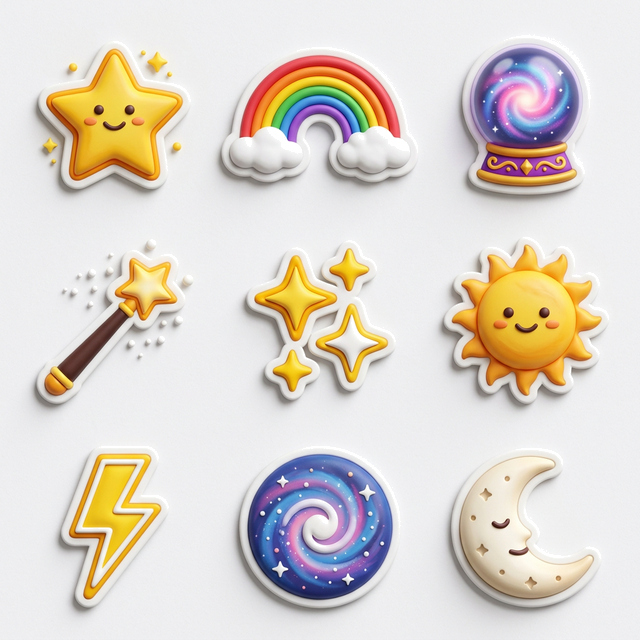
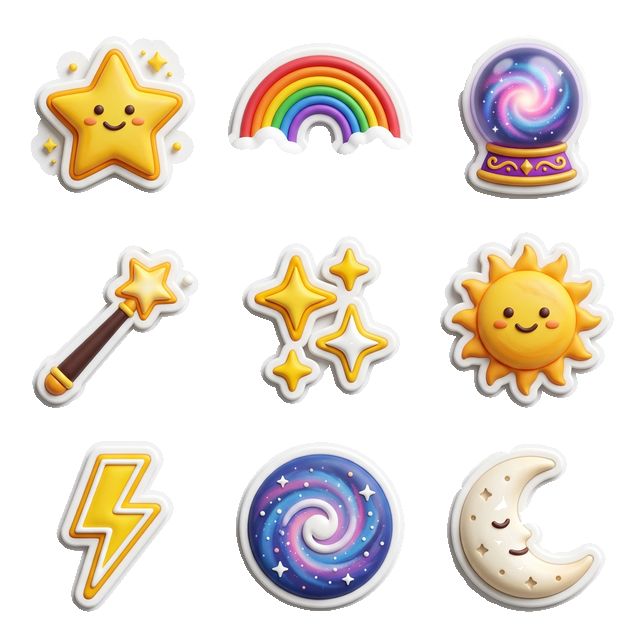
Fix sticker clipping: Use advanced Dilation-based isolation to perfectly remove backgrounds and shadows

diff --git a/ImageProcessor.java b/ImageProcessor.java
@@ -1,5 +1,4 @@
 import javax.imageio.ImageIO;
-import java.awt.*;
 import java.awt.image.BufferedImage;
 import java.io.File;
 import java.io.IOException;
@@ -21,20 +20,19 @@ public class ImageProcessor {
         for (File file : files) {
             System.out.println("Processing: " + file.getName());
             BufferedImage src = ImageIO.read(file);
-            BufferedImage res = removeWhiteBackground(src);
+            BufferedImage res = isolateStickerByColorAndExpansion(src);
             String outputName = file.getName().replace(".png", "_transparent.png");
             ImageIO.write(res, "PNG", new File(outputDir, outputName));
         }
     }
 
-    private static BufferedImage removeWhiteBackground(BufferedImage src) {
+    private static BufferedImage isolateStickerByColorAndExpansion(BufferedImage src) {
         int width = src.getWidth();
         int height = src.getHeight();
         BufferedImage out = new BufferedImage(width, height, BufferedImage.TYPE_INT_ARGB);
-
-        // Threshold for white (adjust if needed)
-        int threshold = 245; 
-
+        
+        boolean[][] isBody = new boolean[width][height];
+        
         for (int y = 0; y < height; y++) {
             for (int x = 0; x < width; x++) {
                 int rgb = src.getRGB(x, y);
@@ -42,13 +40,54 @@ public class ImageProcessor {
                 int g = (rgb >> 8) & 0xFF;
                 int b = rgb & 0xFF;
 
-                if (r > threshold && g > threshold && b > threshold) {
-                    out.setRGB(x, y, 0x00000000); // Transparent
-                } else {
-                    out.setRGB(x, y, rgb | 0xFF000000); // Opaque
+                // Detect "Significant Color" (not white, not grey, not black)
+                // We use saturation/chroma check
+                int max = Math.max(r, Math.max(g, b));
+                int min = Math.min(r, Math.min(g, b));
+                int diff = max - min;
+                
+                // If the pixel has a strong color OR is dark (but not white/grey)
+                if (diff > 40 || (max < 150 && diff > 20)) {
+                    isBody[x][y] = true;
                 }
             }
         }
+
+        // Dilate the body to include the white border (approx 12 pixels)
+        int borderSize = 12;
+        boolean[][] isSticker = new boolean[width][height];
+        for (int y = 0; y < height; y++) {
+            for (int x = 0; x < width; x++) {
+                if (isBody[x][y]) {
+                    for (int dy = -borderSize; dy <= borderSize; dy++) {
+                        for (int dx = -borderSize; dx <= borderSize; dx++) {
+                            int nx = x + dx;
+                            int ny = y + dy;
+                            if (nx >= 0 && nx < width && ny >= 0 && ny < height) {
+                                if (dx*dx + dy*dy <= borderSize*borderSize) {
+                                    isSticker[nx][ny] = true;
+                                }
+                            }
+                        }
+                    }
+                }
+            }
+        }
+
+        // Final output
+        for (int y = 0; y < height; y++) {
+            for (int x = 0; x < width; x++) {
+                if (isSticker[x][y]) {
+                    int rgb = src.getRGB(x, y);
+                    // For the border pixels that are very white, keep them opaque
+                    // For pixels near the very edge of the dilation, we can feather them
+                    out.setRGB(x, y, rgb | 0xFF000000);
+                } else {
+                    out.setRGB(x, y, 0x00000000);
+                }
+            }
+        }
+        
         return out;
     }
 }
